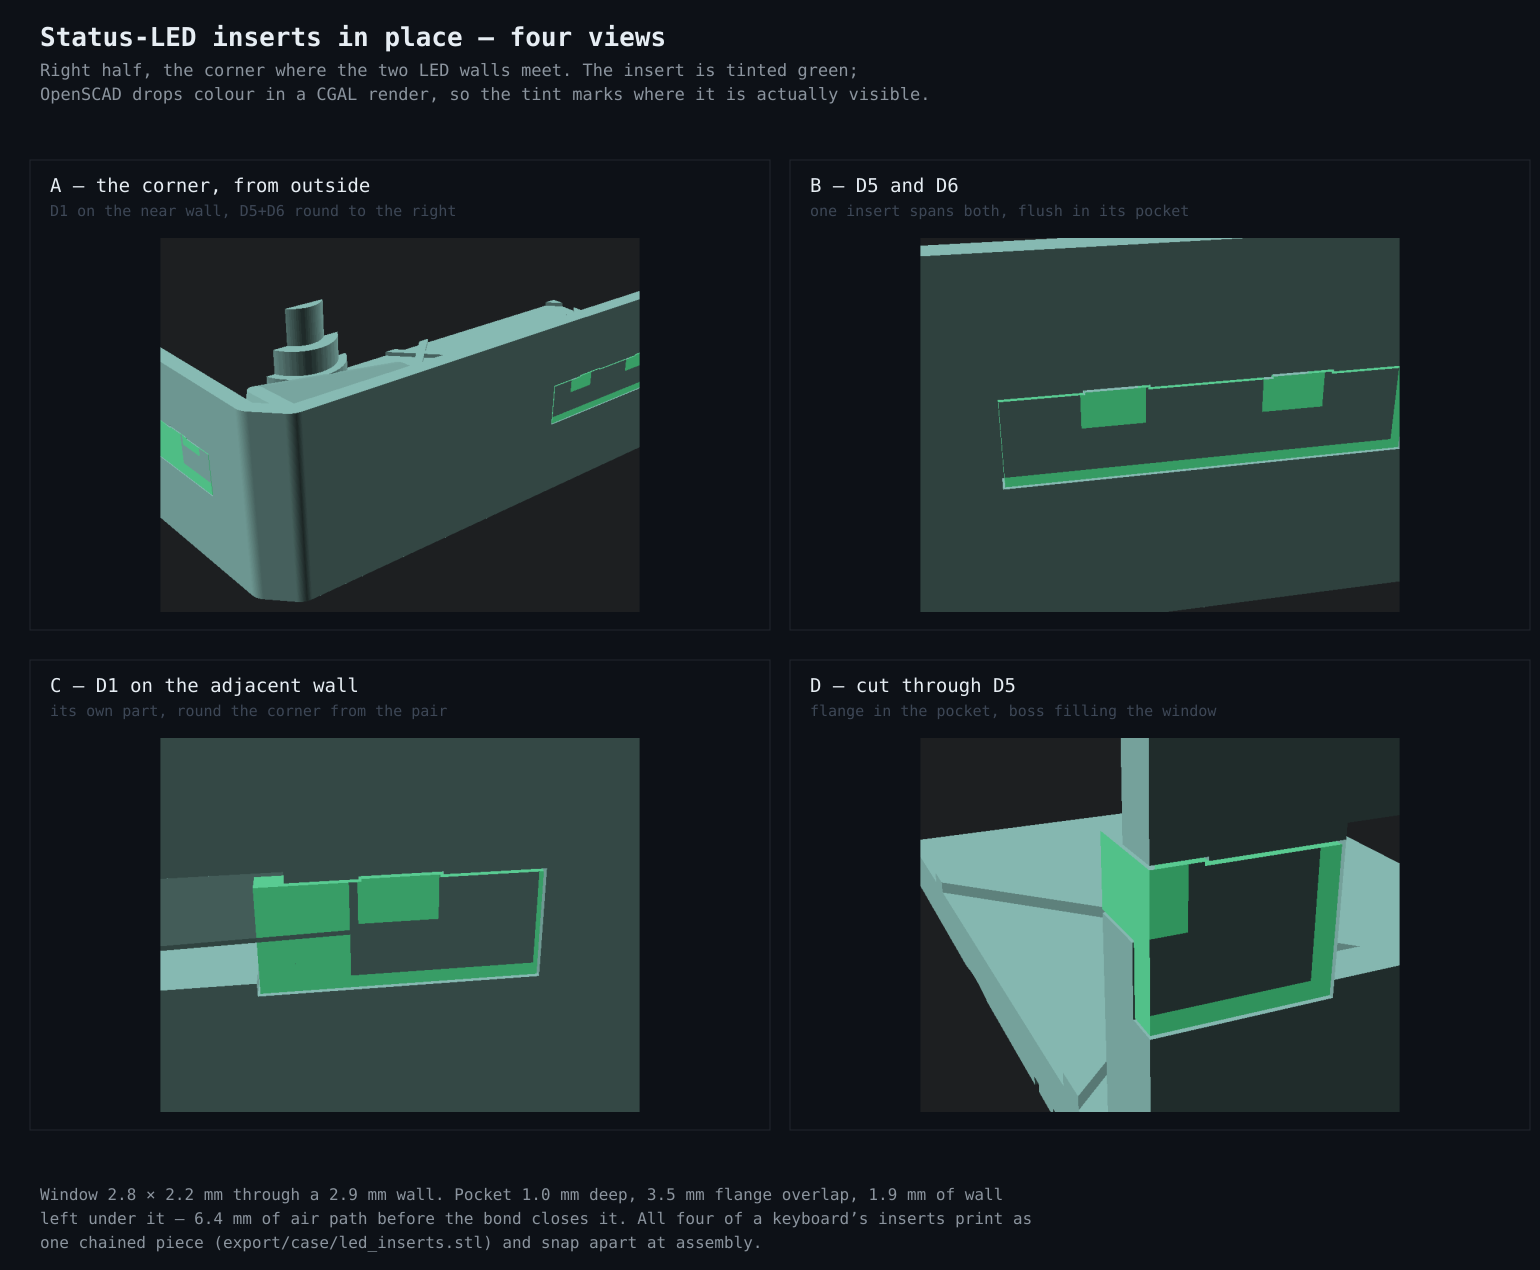
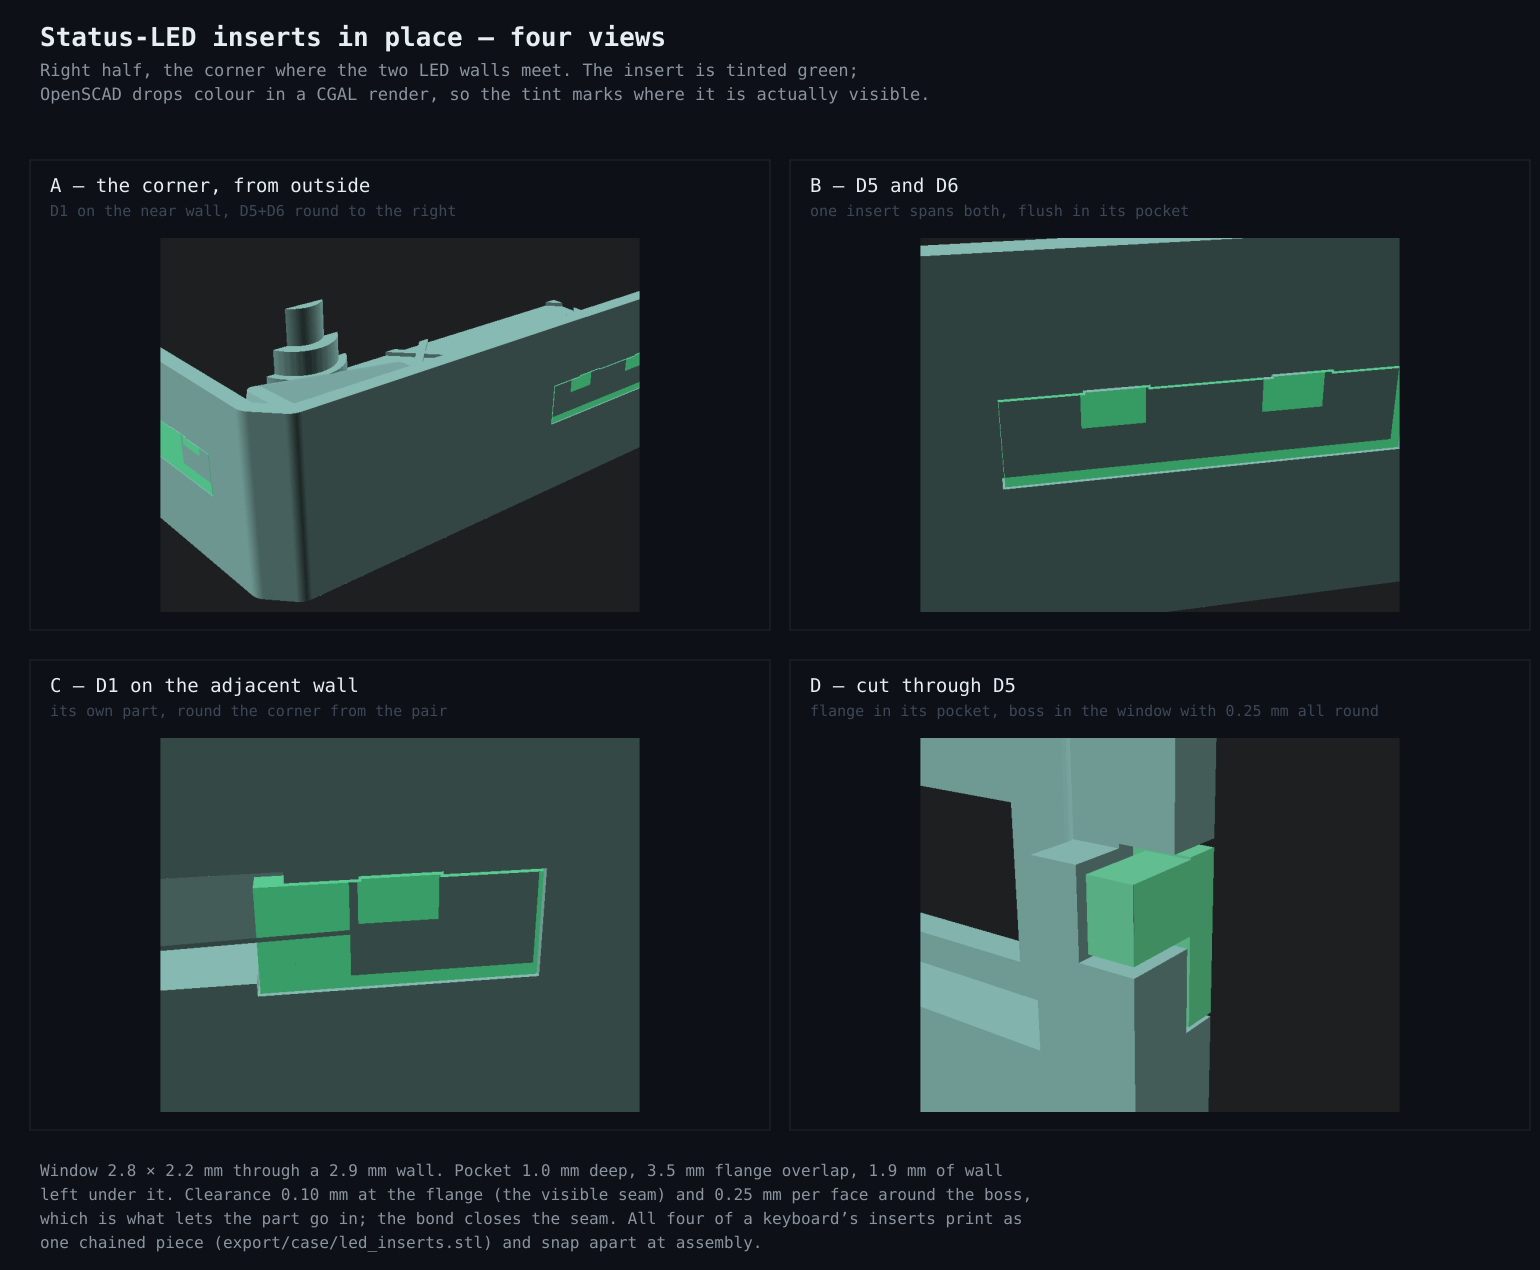
Case: split the insert clearance in two, 0.10 at the seam and 0.25 at the boss
The ESD argument never rested on the seam -- the report's Table 14 already
records open 1 mm tenting-kit holes as "no discharge possible" -- so the fit is
free to be whatever makes the part go in.  But the two faces are not the same
problem, and one number was the wrong tool for both:

  led_insert_gap 0.10  the flange in its pocket.  That edge is ON the outer
                       surface, so the gap IS the visible seam.
  led_window_gap 0.25  the boss in the slot.  Buried in the wall, has to travel
                       the full 2.9 mm wall thickness, and is the only feature
                       that can bind on the way in.

Two defects went with it, neither of which was the point:

  - the boss used to end exactly at the PCB underside (z = 11.5) and could bear
    on the board; it now stops at 11.35.
  - the part had an odd stepped top, the boss standing 0.1 mm proud of the
    flange because the flange carried the gap and the boss did not.  The boss
    top (11.35) is now below the flange top (11.4) and the top face is flat.

The outer face itself still gets no clearance in either direction --
led_wall_band takes the gap off the inboard side only -- so the insert stays
flush and the bond gap sits behind it.

Verified, not eyeballed: insert-minus-cavity exports empty for both parts, five
positive controls (0.3 mm in +-y, +-z and +x) all collide so the test can still
fail, and the measured boss is 0.25 mm inside the window on every face
[…]

Changed region(s): [[0.5922, 0.5528, 0.9351, 0.8906], [0.0312, 0.9213, 0.6545, 0.9827]]

diff --git a/RoHS/led-insert-section.py b/RoHS/led-insert-section.py
@@ -7,7 +7,8 @@ from figlib import Fig, C
 # ---- geometry, straight from the case parameters ---------------------------
 case_wall_thickness, pcb_clearance, pcb_edge_width = 1.5, 0.15, 1.4
 case_bottom_thickness, pcb_edge_height = 2, 9.5
-led_pocket_depth, led_pocket_overlap, led_pocket_down, led_insert_gap = 1.0, 3.5, 2.0, 0.10
+led_pocket_depth, led_pocket_overlap, led_pocket_down = 1.0, 3.5, 2.0
+led_insert_gap, led_window_gap = 0.10, 0.25   # flange seam / boss in the slot
 
 OUT   = -(case_wall_thickness + pcb_clearance)      # outer wall face
 IN_LO =  (pcb_edge_width - pcb_clearance)           # inner face below the PCB
@@ -42,9 +43,9 @@ def draw(A, with_path):
     f.poly([A((OUT,PK_Z0)),A((PK_X1,PK_Z0)),A((PK_X1,PK_Z1)),A((OUT,PK_Z1))],
            C.BG, C.BLU, sw=2, dash='5 3')
     # the insert: flange in the pocket + boss through the window
-    g = led_insert_gap
-    f.poly([A((OUT,PK_Z0+g)),A((PK_X1-g,PK_Z0+g)),A((PK_X1-g,WZ0+g)),A((IN_LO,WZ0+g)),
-            A((IN_LO,WZ1-g)),A((PK_X1-g,WZ1-g)),A((PK_X1-g,PK_Z1-g)),A((OUT,PK_Z1-g))],
+    g, gw = led_insert_gap, led_window_gap
+    f.poly([A((OUT,PK_Z0+g)),A((PK_X1-g,PK_Z0+g)),A((PK_X1-g,WZ0+gw)),A((IN_LO,WZ0+gw)),
+            A((IN_LO,WZ1-gw)),A((PK_X1-g,WZ1-gw)),A((PK_X1-g,PK_Z1-g)),A((OUT,PK_Z1-g))],
            C.GRN, C.GRN, sw=2, op=.45)
     # PCB + the LED behind the window
     f.poly([A((IN_HI,PCB_Z)),A((5.0,PCB_Z)),A((5.0,PCB_Z+1.1)),A((IN_HI,PCB_Z+1.1))],
@@ -52,7 +53,7 @@ def draw(A, with_path):
     f.poly([A((LED_X-1.0,PCB_Z-0.9)),A((LED_X+1.0,PCB_Z-0.9)),A((LED_X+1.0,PCB_Z)),
             A((LED_X-1.0,PCB_Z))], C.AMB, C.AMB, sw=1.5, op=.8)
     if with_path:
-        p = [A((OUT,PK_Z1-g)),A((PK_X1-g,PK_Z1-g)),A((PK_X1-g,WZ1-g)),A((IN_LO,WZ1-g))]
+        p = [A((OUT,PK_Z1-g)),A((PK_X1-g,PK_Z1-g)),A((PK_X1-g,WZ1-gw)),A((IN_LO,WZ1-gw))]
         for a,b in zip(p,p[1:]):
             f.line(a,b,C.RED,sw=4)
         f.dot(p[0],C.RED,5); f.dot(p[-1],C.RED,5)
@@ -65,6 +66,8 @@ A = Fig.frame(scale=SC, ox=222, oy=1189)
 draw(A, False)
 f.dim_h(A((OUT,0))[0], A((IN_LO,0))[0], 856, C.FG, f'wall {WALL_LO:.1f} mm')
 f.dim_h(A((OUT,0))[0], A((PK_X1,0))[0], 800, C.BLU, f'pocket {led_pocket_depth:.1f}')
+f.txt(62, 242, f'clearance {led_insert_gap:.2f} mm at the flange (a seam you can see),', 15, C.GRN)
+f.txt(62, 264, f'{led_window_gap:.2f} mm per face around the boss (buried in the wall)', 15, C.GRN)
 # z callouts, leadered from the wall's inner face out to a clear column
 XL = A((5.15, 0))[0]
 for lbl, z, col, x_at in [('PCB underside 11.5', PCB_Z, C.DIM, IN_HI),
@@ -75,8 +78,8 @@ for lbl, z, col, x_at in [('PCB underside 11.5', PCB_Z, C.DIM, IN_HI),
     f.txt(XL, y + 5, lbl, 13, col)
 
 # ---- panel B: the air path ----
-f.panel(760, 150, 700, 760, 'B — the air path an 8 kV discharge must take',
-        'and why the seam is bonded rather than merely fitted')
+f.panel(760, 150, 700, 760, 'B — the seam, and why it is bonded',
+        'the path is long, but the bond is what the design rests on')
 B = Fig.frame(scale=SC, ox=942, oy=1189)
 draw(B, True)
 f.txt(975, 806, f'pocket depth      {led_pocket_depth:.1f} mm', 17, C.RED)
@@ -84,11 +87,11 @@ f.txt(975, 830, f'+ flange overlap  {led_pocket_overlap:.1f} mm', 17, C.RED)
 f.txt(975, 854, f'+ wall under it   {REMAIN:.1f} mm', 17, C.RED)
 f.line((971,866),(1215,866), C.RED, 2)
 f.txt(975, 892, f'= {PATH:.1f} mm of narrow gap', 19, C.RED, bold=True)
-f.txt(975, 916, 'and the bond closes it entirely', 15, C.DIM)
+f.txt(975, 916, 'which the bond then closes entirely', 15, C.DIM)
 
 f.footer('Derived from the led_* parameters in case/case_polykybd_split72_lr.scad — the pocket and the',
          'insert come from the same modules, so they cannot drift. Two parts per half: one spans D5+D6,',
          'one covers D1. Four per keyboard, printed in clear resin.')
-f.save('<repo>/RoHS/led-insert-section.svg')
+f.save(f'{REPO}/RoHS/led-insert-section.svg')
 f.png()
 print('figure written')

diff --git a/RoHS/led-insert-views.py b/RoHS/led-insert-views.py
@@ -3,7 +3,17 @@ REPO = subprocess.run(['git','rev-parse','--show-toplevel'], cwd='/home/user/Pol
                       capture_output=True, text=True, check=True).stdout.strip()
 sys.path.insert(0, f'{REPO}/.claude/skills/explain-geometry-figure')
 from figlib import Fig, C
-S = '<renders>'
+import os
+
+# The four 820x640 OpenSCAD renders. They are build artefacts, not committed, so
+# point RENDERS at wherever they were made. To remake them: export the case and
+# the inserts over the LED corner to reg_case.stl / reg_ins.stl, then for each
+# view render the case ALONE and case+insert with the same camera and tint the
+# pixels that differ (that marks where the insert is actually visible - OpenSCAD
+# drops colour() under --render=cgal). D is a section: intersect with
+# translate([-20,60,-5]) cube([60,29.89,30]) to cut at y = 89.89, through D5, and
+# use camera '16,100,17,1,89.5,10'.
+S = os.environ.get('RENDERS', '/tmp/led-renders')
 
 f = Fig(1540, 1270)
 f.title('Status-LED inserts in place — four views',
@@ -23,10 +33,11 @@ put(790, 160, 'B_t.png', 'B — D5 and D6',
 put(30,  660, 'C_t.png', 'C — D1 on the adjacent wall',
     'its own part, round the corner from the pair')
 put(790, 660, 'D_t.png', 'D — cut through D5',
-    'flange in the pocket, boss filling the window')
+    'flange in its pocket, boss in the window with 0.25 mm all round')
 
 f.footer('Window 2.8 × 2.2 mm through a 2.9 mm wall. Pocket 1.0 mm deep, 3.5 mm flange overlap, 1.9 mm of wall',
-         'left under it — 6.4 mm of air path before the bond closes it. All four of a keyboard’s inserts print as',
+         'left under it. Clearance 0.10 mm at the flange (the visible seam) and 0.25 mm per face around the boss,',
+         'which is what lets the part go in; the bond closes the seam. All four of a keyboard’s inserts print as',
          'one chained piece (export/case/led_inserts.stl) and snap apart at assembly.')
 f.save(f'{REPO}/RoHS/led-insert-views.svg'); f.png()
 print('ok')

diff --git a/RoHS/CE-document-status.md b/RoHS/CE-document-status.md
@@ -336,13 +336,14 @@ inserts, which removes an exposure path rather than changing the product. KEBA
 is being asked to rate points that are no longer accessible, not to accept a
 different EUT.
 
-**Geometry — a "top hat", fitted from the inside:**
+**Geometry — a "top hat", fitted from the OUTSIDE** (the first analysis said
+inside; see the correction further down for why that does not fit):
 
 | Feature | Why |
 |---|---|
 | Boss **fills the hole flush** with the outer face | no recess for the gun's 8 mm tip to enter, no edge to approach; also removes the shadowed recess over the LEDs |
-| **Flange overlaps the inner wall** | the air path must turn a corner and run the overlap width, not the wall thickness; seated harder by outside pressure; cannot be pushed through or prised out |
-| **Adhesive bead around the seam** | see the three reasons below |
+| **Flange sits in a pocket in the outer face** | bears on the pocket floor, so the insert is captive against being pushed in — the direction a finger or a gun actually loads it; the overlap also turns the seam into a long narrow path rather than a straight 2.9 mm hole |
+| **Adhesive bead around the seam** | see the three reasons below; it is also what resists the insert being *pulled* out |
 | ≥1 mm in the transparent window | PMMA/PC ≈ 16–20 kV/mm, so 1 mm ≫ the 8 kV test; 0.5 mm is only 8–10 kV, i.e. at the test level |
 
 ⚠ **NOT one window for all three** — that was wrong, and the board says so. The
@@ -367,6 +368,8 @@ before/after view from outside the case.
 | Wall there | 2.9 mm (only 1.5 mm above the PCB underside) |
 | Pocket depth / flange overlap | 1.0 mm / 3.5 mm |
 | Wall left under the pocket | 1.9 mm |
+| **Clearance — flange in its pocket** | **0.10 mm** per face (`led_insert_gap`) |
+| **Clearance — boss in the slot** | **0.25 mm** per face (`led_window_gap`) |
 | **Air path through the seam** | **6.4 mm**, before the bond closes it |
 
 ✅ **All four print as one piece.** Each insert is only a couple of hundred
@@ -412,6 +415,33 @@ ones** — the overlap because below ~3.1 mm the two flanges stop merging into o
 part (below), and the bond for retention. Anyone shrinking the pocket later
 should know the ESD margin was never what sized it.
 
+✅ **Two clearances, not one — and the second one follows from that.** Once the
+seam stopped being the ESD argument, the fit could be loosened to whatever makes
+the part go in. But the two faces are not the same problem, so one number is the
+wrong tool:
+
+- **`led_insert_gap` = 0.10 mm** — the flange's fit in its pocket. The flange
+  edge is **on the outer surface**, so this gap *is* the visible seam. Keep it
+  tight.
+- **`led_window_gap` = 0.25 mm** — the boss's clearance in the slot. It is buried
+  in the wall where nothing is visible, it has to travel the full 2.9 mm wall
+  thickness, and it is the only feature that can bind on the way in. So it gets
+  the margin.
+
+Two defects disappeared with it, neither of which was the point:
+
+- The boss used to end **exactly at the PCB underside** (z = 11.5). It now stops
+  at 11.35, so the insert cannot bear on the board.
+- The insert had an **odd stepped top**: the boss stood 0.1 mm proud of the
+  flange, because the flange carried the gap and the boss did not. At 0.25 the
+  boss top (11.35) is *below* the flange top (11.4) and the part has one flat
+  face.
+
+⚠ The outer face itself has **no** clearance in either direction — `led_wall_band`
+takes the gap off the *inboard* side only, so the insert is flush with the case
+and the bond gap is behind it. That is deliberate; do not add a gap there to
+"make it easier", it would sink the insert below the surface.
+
 ⚠ **`led_pocket_overlap` has a floor near 3.1 mm.** At 2.0 the two flanges came
 out 5.8 mm wide with centres 8 mm apart — a "part" in two disconnected pieces
 that exports and renders perfectly happily. 3.5 merges them *and* lengthens the
@@ -421,8 +451,11 @@ air path.
 only `case_wall_thickness` there, so a pocket would leave it too thin to print.
 
 Verified rather than eyeballed: both inserts sit inside the cavity the case
-loses, four positive controls (0.4 mm in x, y and z) all collide, and the glue
-gap is a real non-empty shell.
+loses (the difference exports as *empty*), **five positive controls — 0.3 mm in
+±y, ±z and +x — all collide**, so the test can still fail, and the clearance
+volume is a real non-empty shell. Measured per face: boss y 88.74–99.04 inside a
+window at 88.49–99.29, boss z 9.65–11.35 inside a window at 9.4–11.6 → 0.25 mm
+all round; flange 0.10 mm all round.
 
 **The buttons need a different part from the LEDs, because they must move.** Any
 clearance is an air path unless it is long or sealed, so the protection should be
